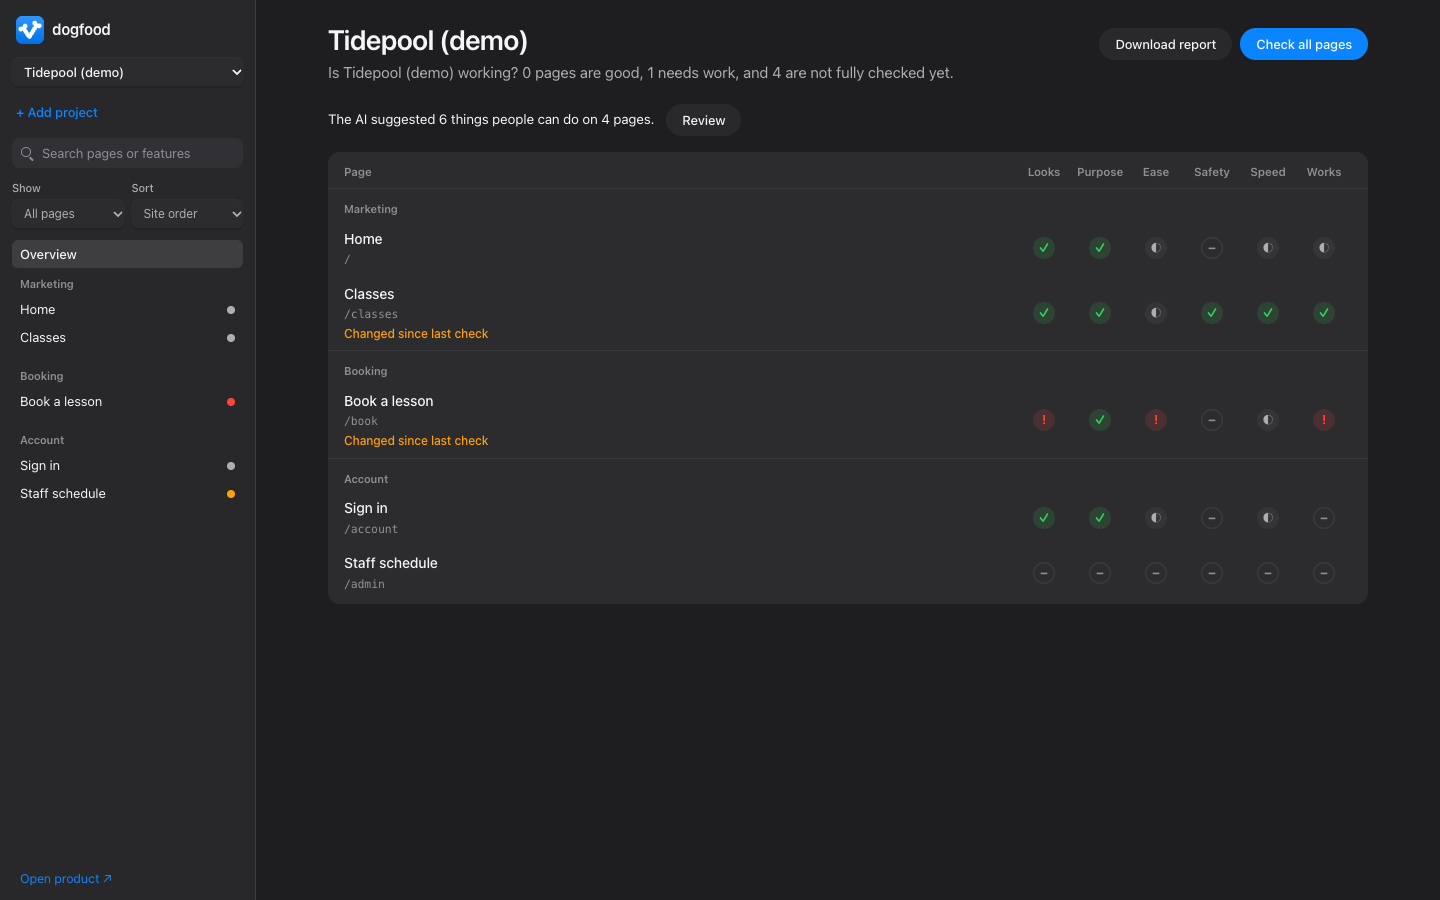
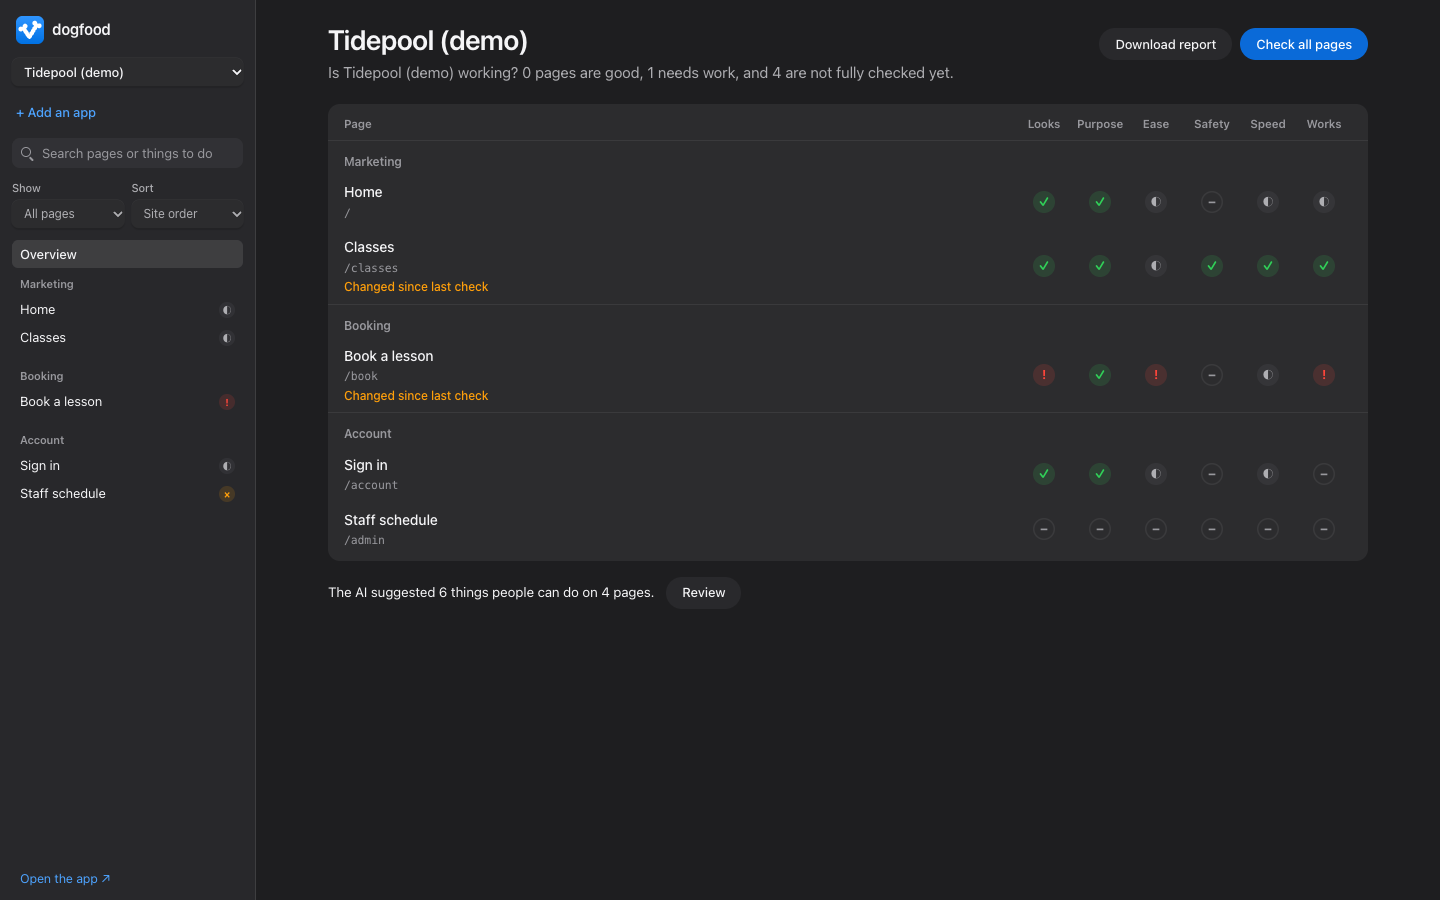
One vocabulary across every screen, from the cross-surface consistency review
- One name per thing: Add an app, Open page (and Open the app in the sidebar), Check again,
  Good in every picker, Measured by the page check, Checked as the filter, Report a bug on both
  the button and the form, things to do instead of features, Uncheck.
- While a form is open its Save is the only blue button; opening the bug form closes others.
- Judged answers say "Check with AI" (the button's name), or "Take screenshots first" on a page
  that has none; an answer with no source no longer repeats "Not checked yet".
- Default checklist questions are in plain words (version 6 rewords unedited ones); the demo's
  questions and its blocked page say "screenshot", not "capture"; the page language is a name.
- Page titles are 28px like every other view; Suggestions and Add an app have the same top back
  link as the rest; bug severity is offered worst first; the report is titled "is it working?".

diff --git a/public/styles.css b/public/styles.css
@@ -118,7 +118,7 @@ code { font-family: var(--mono); }
 .page-heading { display: flex; align-items: end; justify-content: space-between; gap: 16px; margin-bottom: 16px; }
 .page-title { min-width: 0; max-width: 100%; }
 .page-route { overflow: hidden; margin: 0 0 2px; color: var(--tertiary); font: 12px var(--mono); letter-spacing: 0; text-overflow: ellipsis; white-space: nowrap; }
-.page-heading h1 { margin: 0; font-size: 26px; font-weight: 600; line-height: 1.15; letter-spacing: -.022em; }
+.page-heading h1 { margin: 0; font-size: 28px; font-weight: 600; line-height: 1.15; letter-spacing: -.022em; }
 .page-heading h1:focus { outline: 0; }
 .page-actions { display: flex; flex-wrap: wrap; align-items: center; justify-content: end; gap: 6px 14px; color: var(--secondary); font-size: 13px; white-space: nowrap; }
 
@@ -137,7 +137,7 @@ code { font-family: var(--mono); }
 .screen-frame { height: 272px; overflow: hidden; border-radius: 8px; background: var(--canvas); box-shadow: 0 0 0 .5px var(--hairline); }
 .report-screen-mobile .screen-frame { border-radius: 14px; }
 .screen-frame img { display: block; width: 100%; height: auto; }
-.report-screen figcaption { margin-top: 6px; color: var(--tertiary); font-size: 12px; }
+.report-screen figcaption { overflow: hidden; margin-top: 6px; color: var(--tertiary); font-size: 12px; text-overflow: ellipsis; white-space: nowrap; }
 .report-screen figcaption strong { color: var(--secondary); font-weight: 500; }
 .screen-missing { display: grid; place-items: center; height: 100%; margin: 0; padding: 16px; color: var(--secondary); font-size: 13px; text-align: center; }
 .screens-empty { display: grid; justify-items: center; gap: 6px; padding: 32px 16px; text-align: center; }
@@ -164,7 +164,7 @@ code { font-family: var(--mono); }
 
 /* One answer and its evidence */
 .answer-detail, .screens-view { display: grid; gap: 16px; }
-.back-button { justify-self: start; min-height: 28px; padding: 0; border: 0; background: transparent; color: var(--blue); font-size: 13.5px; font-weight: 500; }
+.back-button { display: block; justify-self: start; margin-bottom: 8px; min-height: 28px; padding: 0; border: 0; background: transparent; color: var(--blue); font-size: 13.5px; font-weight: 500; }
 .back-button:hover { text-decoration: underline; }
 .answer-detail h1, .screens-view h1 { margin: -8px 0 0; font-size: 28px; font-weight: 600; line-height: 1.15; letter-spacing: -.022em; }
 .answer-detail h1:focus, .screens-view h1:focus { outline: 0; }
@@ -237,7 +237,7 @@ code { font-family: var(--mono); }
 .overview-columns, .overview-page > button { display: grid; grid-template-columns: minmax(0, 1fr) auto; align-items: center; gap: 16px; padding: 0 16px; }
 .overview-columns { min-height: 32px; color: var(--tertiary); font-size: 11.5px; font-weight: 600; }
 .overview-marks { display: grid; grid-template-columns: repeat(6, 56px); justify-items: center; }
-.overview-group h2 { margin: 0; padding: 12px 16px 4px; border-top: .5px solid var(--separator); color: var(--tertiary); font-size: 11px; font-weight: 600; }
+.overview-group h2 { margin: 0; padding: 12px 16px 4px; border-top: .5px solid var(--separator); color: var(--tertiary); font-size: 12px; font-weight: 600; }
 .overview-page > button { width: 100%; min-width: 0; min-height: 52px; padding-top: 8px; padding-bottom: 8px; border: 0; background: transparent; text-align: left; }
 .overview-page > button:hover { background: var(--selection); }
 .overview-identity { display: grid; gap: 2px; min-width: 0; }
